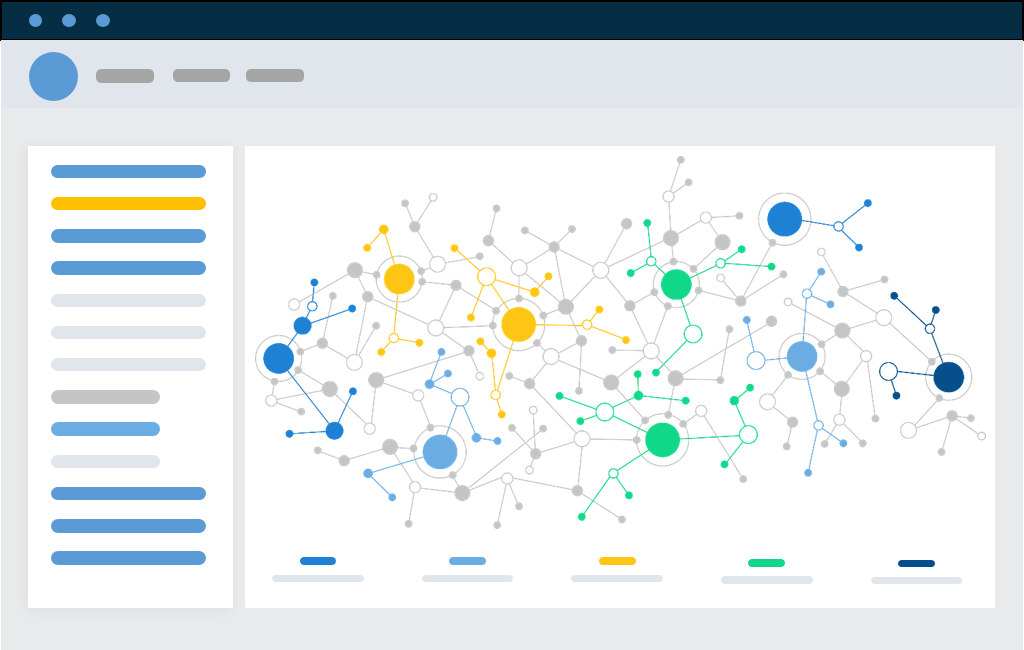
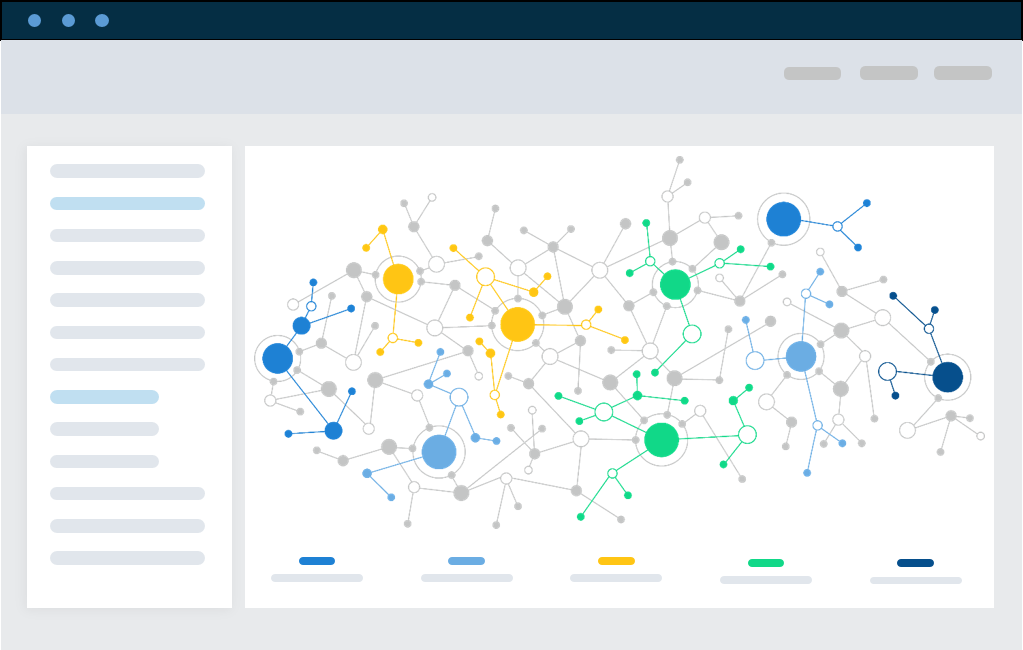
fix: styles

diff --git a/src/components/Solutions/Solutions.css b/src/components/Solutions/Solutions.css
@@ -38,11 +38,6 @@
     
 }
 
-.solutions__indicator:not(.solutions__indicator_active){
-
-  
-}
-
 
 .solutions__indicator:not(.solutions__indicator_active):hover {
   opacity: 1;
@@ -54,9 +49,7 @@
   filter: drop-shadow(0 0 20px #12abdb);
 }
 
-.solutions__indicator:not(.solutions__indicator_active):hover:before {
 
- }
 .solutions__indicator_active {
     color: #12abdb; 
 
@@ -78,8 +71,8 @@
 .solution {
   opacity: 0;
   position: absolute;
-  top: 0;
-  right: 50px;
+  top: 30px;
+  right: 80px;
   display: flex;  
   transition: opacity 0.6s ease-in-out;
   z-index: 1;
@@ -94,9 +87,9 @@
 }
 
 .solution__content {
-  font-size: 22px;
+  font-size: 24px;
   font-weight: 400;  
-  line-height: 28px;
+  line-height: 32px;
   padding-top: 80px;
   position: relative;
   display: flex;
@@ -107,6 +100,7 @@
 
 .solution__text {
     max-width: 800px;
+    padding-top: 30px;
     
     
 }
@@ -119,7 +113,10 @@
 
 .solution__btn-more{
  /* margin-left: auto;  */
-  margin: 0 auto;
+  position: absolute;
+  top: 118px;
+  left: 20px;
+  z-index: 4;
 }
 
 .solution__title {
